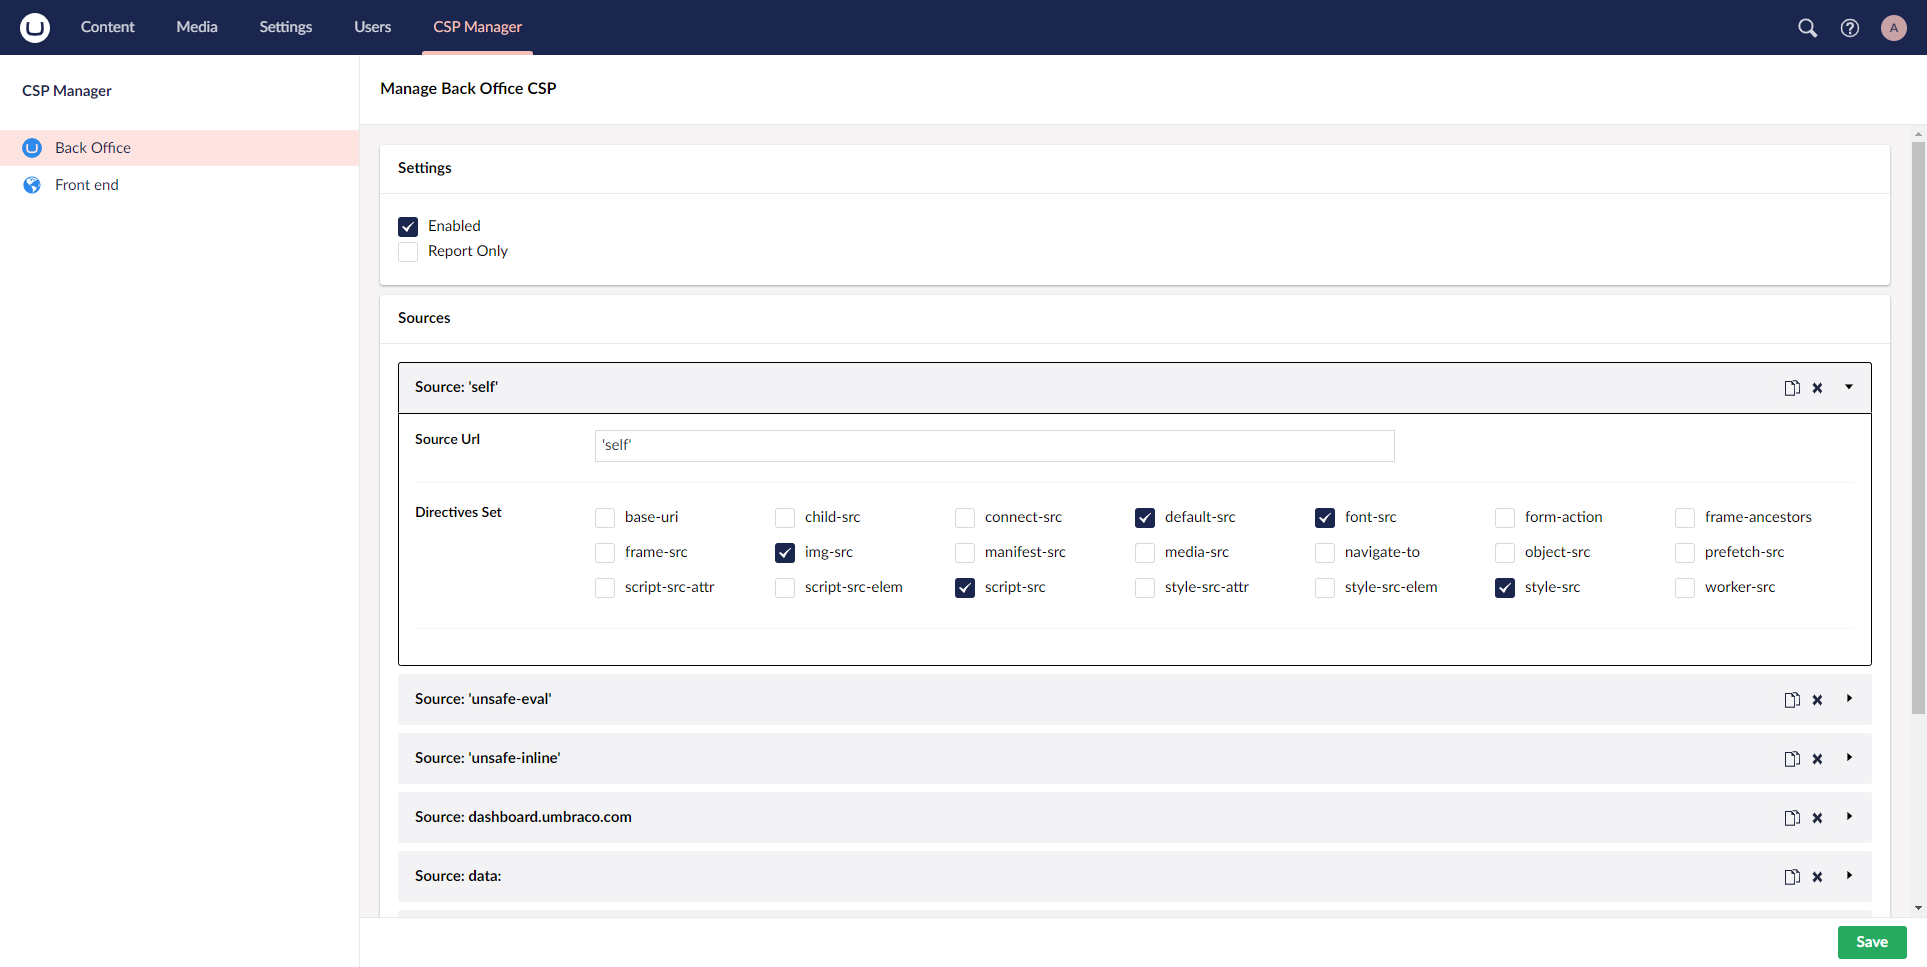
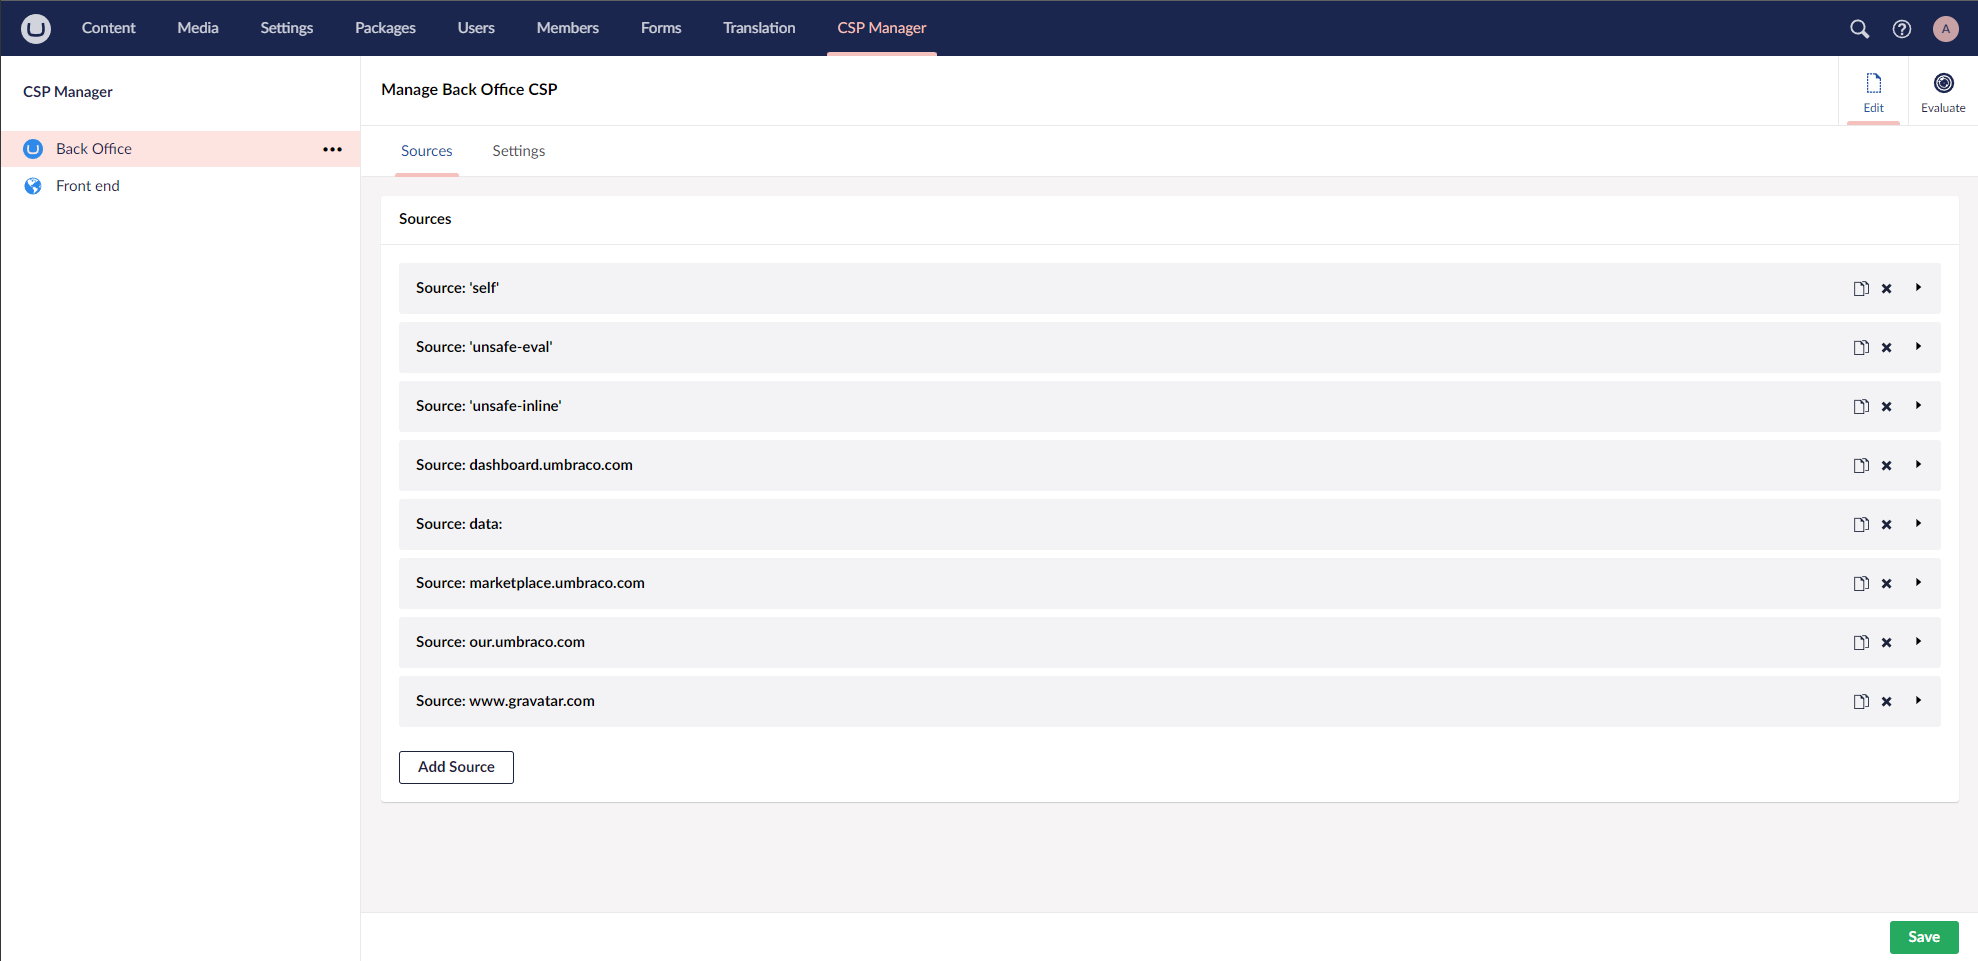
Fixed broken nuGet image and added more images

diff --git a/README.md b/README.md
@@ -6,12 +6,19 @@
 
 Enables you to manage CSP for both the front and back end, via CMS section.
 
-![Management CSP section](https://github.com/Matthew-Wise/Umbraco-CSP-manager/blob/main/images/managment-screen.png "Csp Management screen")
-
 ## Installation
 
 ```
 dotnet add package Umbraco.Community.CSPManager
 ```
+
+## CSP Management
+![CSP Management section](https://raw.githubusercontent.com/Matthew-Wise/Umbraco-CSP-manager/main/images/managment-screen.png "Csp Management section")
+
+## Configuration
+![Configuration section](https://raw.githubusercontent.com/Matthew-Wise/Umbraco-CSP-manager/main/images/settings-screen.png "Configuration section")
+
+## Evaluation
+![CSP Evaluation section](https://raw.githubusercontent.com/Matthew-Wise/Umbraco-CSP-manager/main/images/evaluate-screen.png "Csp Evaluation section")
 
 You will also need to give access via the users section to the CSP Manager section.
